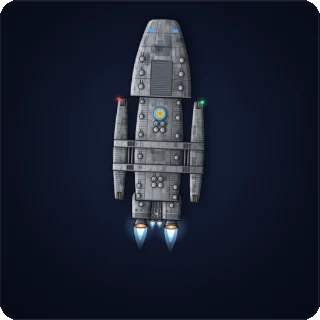
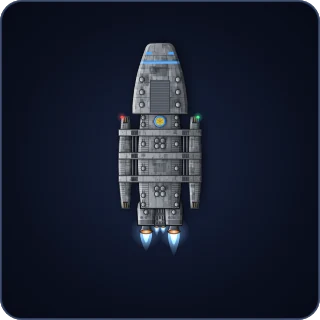
Feature/battleships (#20)
* Capital ships: the destroyer. Version 0.11.0.

* The destroyer: costs as much as ten fighters on every tech level (a size factor on price, refit and recycling) and fights about as well as they do, but in its own way. Eight guns fire at different targets every combat round, and its hull of 320 draws the fire like four fighters, shielding the small ships. Weak against worlds - the battery wastes nothing on a target this big, so conquering stays the fighters' job. Calibrated against the server's combat: one destroyer plus ten fighters against twenty fighters is about even.

* Unlock: Weapons 5 and Shields 5, and a shipyard on a world with at least 20M people (buildLock in shared/rules.js). The yard shows what is missing; the server refuses the order and, if the world has shrunk by the end of the turn, does not build and says why.

* Repairs: ships never repaired before. A fleet with a destroyer in orbit of an own world gets back 20% of every hull per turn without a battle there.

* Names: every destroyer gets one from a fund in server/shipnames.js - historical ships, some from Alien, Star Trek, Battlestar Galactica, Perry Rhodan and Wing Commander - never twice in a game, numbered once the fund runs out. Rename with ✎ in the fleet panel; foreign destroyers are known by their names. Named ships stand alone in the split dialog.
[…]

Changed region(s): [[0.3438, 0.0625, 0.6562, 0.8125], [0.0, 0.0, 1.0, 1.0]]

diff --git a/client/js/render/shipshd.js b/client/js/render/shipshd.js
@@ -849,14 +849,15 @@ const transport = {
 // with bulging, ribbed flanks, the emblem and gun turrets all along; at the
 // stern two short engine nacelles with machinery in
 // between. Far out on the sides two curved landing decks, open at both
-// ends, held by two broad cross struts. Everything is covered in armor
+// ends, held by three broad cross struts. Everything is covered in armor
 // plates of slightly different shades. The empire color sits where the
 // original carries its red: short marks at the tip of the head and at the
-// front ends of the landing decks - and the ring of the emblem.
+// front ends of the landing decks - plus a narrow band across the head and
+// the ring of the emblem.
 const DD = {
   pod: 16.4,                // offset of the landing decks from the axis
   nacelle: 6.6,             // offset of the engine nacelles
-  struts: [[-4.2, -1], [-14.4, -11.2]]
+  struts: [[7.6, 10.8], [-3.4, -0.2], [-14.4, -11.2]]
 };
 /** Half width of the head: broad at the tip, curving out backwards. */
 const ddHeadHalf = x => 6.6 + 6.8 * (1 - ((x - 18) / 33) ** 2);
@@ -1003,10 +1004,13 @@ const destroyer = {
       bevel(ctx, nac, 0.8);
     }
 
-    // Silver tubes between the struts, from the hull out to the landing decks
-    for (const s of [-1, 1]) for (const y of [11.4, 12.9]) {
-      const p = () => { ctx.beginPath(); ctx.roundRect(-11.4, s * y - 0.32, 10.6, 0.64, 0.32); };
-      p(); fillShadowed(ctx, metal(ctx, s * y - 0.32, s * y + 0.32, '#c9d0da'), S * 0.3);
+    // Silver tubes between neighboring struts, from the hull out to the landing decks
+    for (let i = 1; i < DD.struts.length; i++) {
+      const x0 = Math.max(...DD.struts[i]), x1 = Math.min(...DD.struts[i - 1]);
+      for (const s of [-1, 1]) for (const y of [11.4, 12.9]) {
+        const p = () => { ctx.beginPath(); ctx.roundRect(x0 - 0.2, s * y - 0.32, x1 - x0 + 0.4, 0.64, 0.32); };
+        p(); fillShadowed(ctx, metal(ctx, s * y - 0.32, s * y + 0.32, '#c9d0da'), S * 0.3);
+      }
     }
 
     // Landing decks: curved, ribbed along the outer flank, open at both ends
@@ -1044,16 +1048,16 @@ const destroyer = {
     bevel(ctx, mid, 0.9);
     // Guns all along: the two groups of four on the spine, rows along both
     // ribbed flanks, one on each engine nacelle
-    for (const x of [6.6, 4]) for (const y of [-1.4, 1.4]) turret(x, y);
+    for (const x of [5.4, 2.8]) for (const y of [-1.4, 1.4]) turret(x, y);
     for (const x of [-17.4, -20]) for (const y of [-1.4, 1.4]) turret(x, y);
-    for (const x of [16, 9.5, 1.6, -7.8, -20.6, -25]) for (const y of [-7.9, 7.9]) turret(x, y, 1);
+    for (const x of [16.4, 13, 3.8, -7.8, -20.6, -25]) for (const y of [-7.9, 7.9]) turret(x, y, 1);
     for (const y of [-DD.nacelle, DD.nacelle]) turret(-28.6, y, 1);
     // The emblem: a ring in the empire color around a golden center
-    const em = () => { ctx.beginPath(); ctx.arc(11, 0, 2.9, 0, TAU); };
+    const em = () => { ctx.beginPath(); ctx.arc(14.6, 0, 2.9, 0, TAU); };
     em(); fillShadowed(ctx, color, S * 0.3);
-    ctx.fillStyle = '#e8c547'; ctx.beginPath(); ctx.arc(11, 0, 1.85, 0, TAU); ctx.fill();
+    ctx.fillStyle = '#e8c547'; ctx.beginPath(); ctx.arc(14.6, 0, 1.85, 0, TAU); ctx.fill();
     ctx.strokeStyle = 'rgba(120,80,10,.7)'; ctx.lineWidth = 0.2;
-    for (let i = 0; i < 6; i++) { const a = i / 6 * TAU; ctx.beginPath(); ctx.moveTo(11, 0); ctx.lineTo(11 + Math.cos(a) * 1.8, Math.sin(a) * 1.8); ctx.stroke(); }
+    for (let i = 0; i < 6; i++) { const a = i / 6 * TAU; ctx.beginPath(); ctx.moveTo(14.6, 0); ctx.lineTo(14.6 + Math.cos(a) * 1.8, Math.sin(a) * 1.8); ctx.stroke(); }
     bevel(ctx, em, 0.3);
 
     // The head: broad, plates all over, the darker deck set into it
@@ -1078,7 +1082,11 @@ const destroyer = {
       inside(ctx, deck, () => ribs(19, 34, -4.6, 4.6, 0.8));
       ctx.strokeStyle = 'rgba(14,18,28,.6)'; ctx.lineWidth = 0.3; deck(); ctx.stroke();
       ctx.fillStyle = 'rgba(14,18,28,.3)'; ctx.fillRect(36, -3.4, 4.5, 6.8);
-      // Empire color: two short marks across the tip
+      // Empire color: a narrow band across the head, two short marks at the tip
+      ctx.fillStyle = color;
+      ctx.fillRect(42.2, -13.4, 1.2, 26.8);
+      ctx.fillStyle = tone(color, 0.35); ctx.fillRect(42.2, -13.4, 0.35, 26.8);
+      ctx.fillStyle = 'rgba(10,14,24,.35)'; ctx.fillRect(43.2, -13.4, 0.2, 26.8);
       ctx.fillStyle = color;
       ctx.fillRect(46.4, -6.6, 1.3, 2.6); ctx.fillRect(46.4, 4, 1.3, 2.6);
     });

diff --git a/client/js/render/ships.js b/client/js/render/ships.js
@@ -401,7 +401,7 @@ function drawTransport(ctx, L, color, phase) {
 // The capital ship in plan view, after a battlestar (units of L/100): a
 // broad head whose flanks curve out backwards, the dominant midsection with
 // the emblem and gun turrets, two short engine nacelles at the stern, and far out on the
-// sides two curved landing decks on two broad cross struts. The empire color
+// sides two curved landing decks on three broad cross struts. The empire color
 // sits where the original carries its red: marks at the tip of the head and
 // the front ends of the landing decks, and the ring of the emblem. Same
 // shapes as in shipshd.js.
@@ -482,13 +482,19 @@ function drawDestroyer(ctx, L, color, phase) {
   // they would read as a band around a rocket nose, so the landing decks
   // and the emblem carry the color alone there.
   ctx.fillStyle = color;
-  if (!small) { ctx.fillRect(46.2 * u, -6.6 * u, 1.4 * u, 2.6 * u); ctx.fillRect(46.2 * u, 4 * u, 1.4 * u, 2.6 * u); }
+  // A narrow band across the head as well - very small it would turn the
+  // ship into a rocket again, so only from a middle size on.
+  if (!small) {
+    ctx.fillRect(46.2 * u, -6.6 * u, 1.4 * u, 2.6 * u); ctx.fillRect(46.2 * u, 4 * u, 1.4 * u, 2.6 * u);
+    const h = ddHeadHalf(42.8) - 0.4;
+    ctx.fillRect(42.2 * u, -h * u, 1.2 * u, 2 * h * u);
+  }
   // Emblem: a ring in the empire color around a golden center
-  ctx.beginPath(); ctx.arc(11 * u, 0, 2.9 * u * Math.min(k, 1.4), 0, Math.PI * 2); ctx.fill(); outline(ctx, fine(L) * 0.6);
-  if (L >= 30) { ctx.fillStyle = '#e8c547'; ctx.beginPath(); ctx.arc(11 * u, 0, 1.8 * u, 0, Math.PI * 2); ctx.fill(); }
+  ctx.beginPath(); ctx.arc(14.6 * u, 0, 2.9 * u * Math.min(k, 1.4), 0, Math.PI * 2); ctx.fill(); outline(ctx, fine(L) * 0.6);
+  if (L >= 30) { ctx.fillStyle = '#e8c547'; ctx.beginPath(); ctx.arc(14.6 * u, 0, 1.8 * u, 0, Math.PI * 2); ctx.fill(); }
   // Cross struts over everything
   const reach = pod + 3.4;
-  for (const x0 of [-4.2, -14.4]) {
+  for (const x0 of [7.6, -3.4, -14.4]) {
     // Very small, darker than the decks, so those stand apart from the hull
     ctx.fillStyle = small ? '#6a717d' : light(-reach * u, reach * u);
     ctx.fillRect(x0 * u, -reach * u, 3.2 * u, reach * 2 * u);
@@ -503,9 +509,9 @@ function drawDestroyer(ctx, L, color, phase) {
   if (L >= 50) {
     ctx.fillStyle = '#8e959f';
     const guns = [];
-    for (const x of [6.6, 4, -17.4, -20]) for (const y of [-1.4, 1.4]) guns.push([x, y]);
+    for (const x of [5.4, 2.8, -17.4, -20]) for (const y of [-1.4, 1.4]) guns.push([x, y]);
     for (const x of [22.5, 28.5, 34.5]) for (const y of [-8.6, 8.6]) guns.push([x, y]);
-    for (const x of [16, 9.5, 1.6, -7.8, -20.6, -25]) for (const y of [-7.9, 7.9]) guns.push([x, y]);
+    for (const x of [16.4, 13, 3.8, -7.8, -20.6, -25]) for (const y of [-7.9, 7.9]) guns.push([x, y]);
     for (const [x, y] of guns) {
       ctx.beginPath(); ctx.arc(x * u, y * u, 1.05 * u, 0, Math.PI * 2); ctx.fill(); outline(ctx, fine(L) * 0.5);
     }
